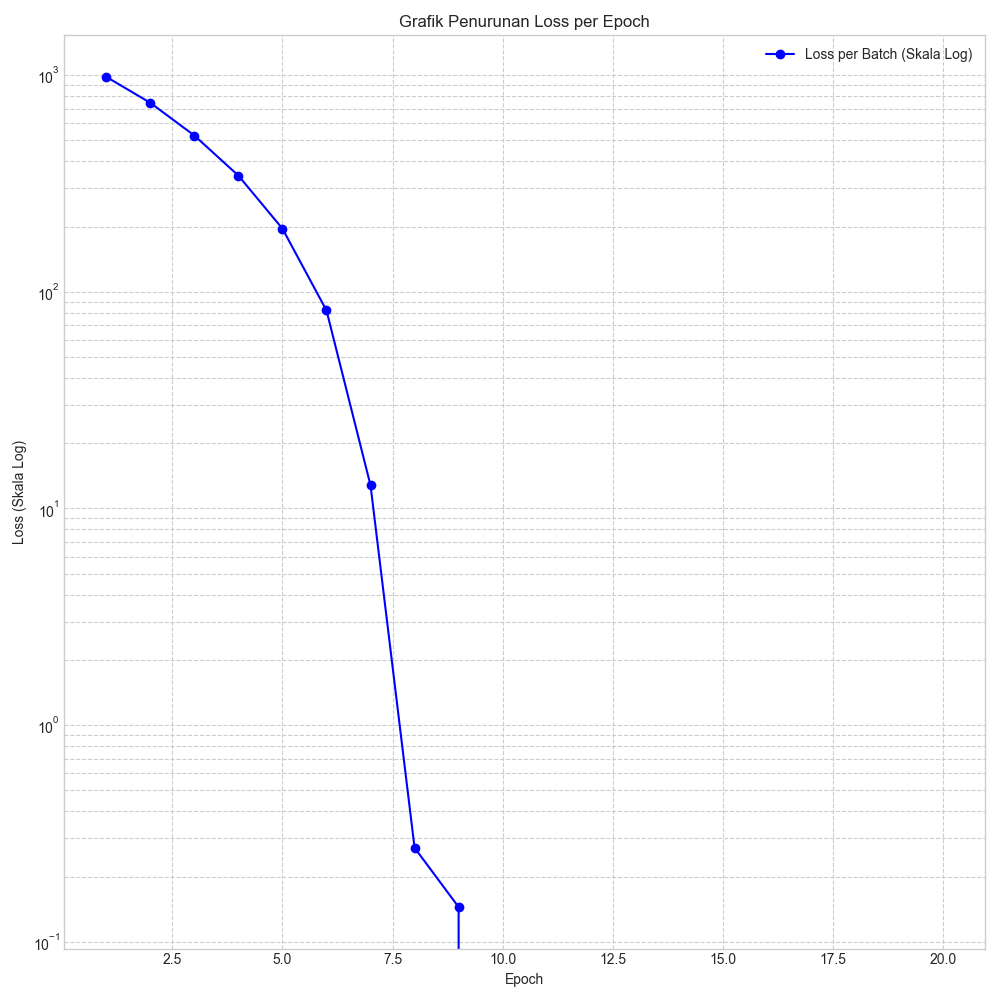
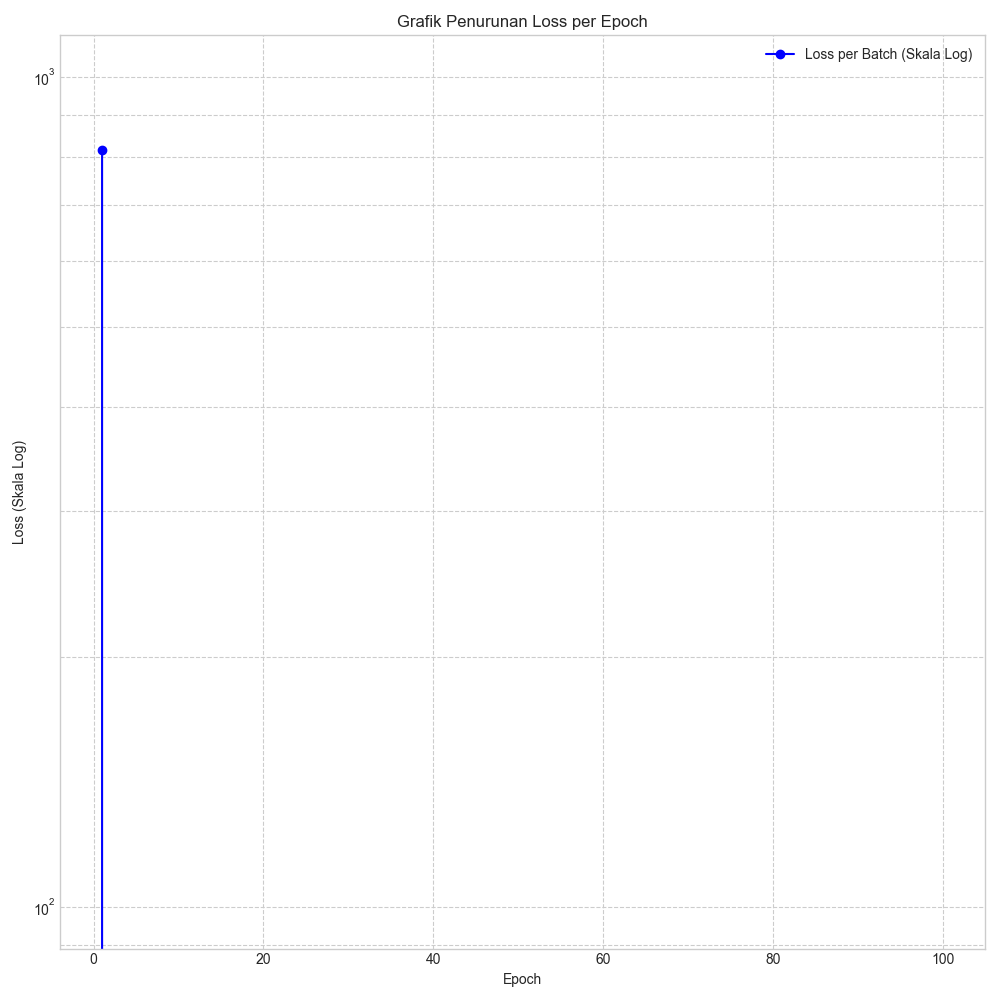
feat trainer

diff --git a/src/trainer2.py b/src/trainer2.py
@@ -4,6 +4,7 @@ import numpy as np
 import pandas as pd
 from torch.utils.data import Dataset, DataLoader
 import csv
+import os
 import sys
 import matplotlib.pyplot as plt # <-- PERBAIKAN: Pastikan baris ini ada di atas
 
@@ -14,12 +15,12 @@ ALPHA = 0.5
 BETA = 5
 GAMMA = 5
 ETA = 5
-R_MIN = 1
+R_MIN = 0.5
 P_MAX = 800.0
-EPOCHS = 20
+EPOCHS = 100
 BATCH_SIZE = 32
 K = 10
-LEARNING_RATE = 1e-4
+LEARNING_RATE = 1e-3
 
 # =================================================================
 # ==== Setup Logging ====
@@ -89,7 +90,7 @@ def custom_loss(Rk, Ik, pk_norm, alpha=ALPHA, beta=BETA, gamma=GAMMA, eta=ETA, R
     reward_qos = -alpha * torch.sum(Ik)
     qos_penalty = beta * torch.sum(torch.relu(R_min * Ik - Rk))
     power_penalty = gamma * torch.sum(torch.relu(pk_norm - 1.0))
-    reg_power = eta * pk_norm.sum()
+    # reg_power = eta * pk_norm.sum()
     return reward_throughput + reward_qos + qos_penalty + power_penalty 
 
 # =================================================================
@@ -105,7 +106,7 @@ def compute_beamforming(predicted_power, path_loss_db):
     L_mk = 10 ** (-path_loss_db / 10)  # Path loss dalam linear scale (bukan dB)
     
     # ===== Perbaikan sqrt_p sesuai jurnal =====
-    p = (predicted_power / (L_mk + 1e-9))  # Normalisasi oleh E[|h|^2]
+    p = (predicted_power / (L_mk))  # Normalisasi oleh E[|h|^2]
     sqrt_p=torch.sqrt(p)
 
     # ===== Channel generation =====
@@ -140,15 +141,20 @@ def compute_beamforming(predicted_power, path_loss_db):
 def compute_sinr(v_k, h_mk, sigma_n2):
     numerator = torch.abs(v_k * h_mk) ** 2
     total_signal = torch.sum(torch.abs(v_k * h_mk) ** 2, dim=1, keepdim=True)
-    denominator = total_signal - numerator + sigma_n2 + 1e-9
+    denominator = total_signal - numerator + sigma_n2
+    result = numerator / denominator
+    
+    return result
     # print(numerator)
     # print(denominator)
     # print(numerator/denominator)
-    return numerator / denominator
+    # return numerator / denominator
 
 def compute_rate(sinr_k, tau_d=270, tau_c=300):
     # print(torch.log2(1 + sinr_k))
-    return (tau_d / tau_c) * torch.log2(1 + sinr_k)
+    result = (tau_d / tau_c) * torch.log2(1 + 100*sinr_k)
+    # R = torch.clamp(result, min=1)
+    return result
     # return (tau_d / tau_c) * torch.log2(1 + sinr_k.clamp(min=1e-30))
 
 # def determine_qos(Rk, R_min=R_MIN, steepness=10.0):
@@ -190,6 +196,67 @@ def plot_training_results(log_path):
         print(f"Error saat membuat grafik: {e}")
 
 # =================================================================
+# ==== Plot Rate vs Epoch untuk Masing-Masing User Terminal (UT) ====
+# =================================================================
+def plot_rate_per_user(log_path):
+    print("\nMembuat grafik Rate vs Epoch untuk masing-masing UT...")
+    try:
+        df = pd.read_csv(log_path)
+        output_dir = "rate_per_user_plots"
+        os.makedirs(output_dir, exist_ok=True)
+
+        for i in range(1, K + 1):  # UT 1 sampai 10
+            plt.figure(figsize=(10, 6))
+            plt.plot(df["epoch"], df[f"rate_ut_{i}"], marker='o', linestyle='-', label=f'UT {i}')
+            plt.xlabel("Epoch")
+            plt.ylabel("Rate (bps/Hz)")
+            plt.title(f"Perbandingan Rate vs Epoch untuk UT {i}")
+            plt.grid(True)
+            plt.legend()
+
+            output_file = os.path.join(output_dir, f"rate_vs_epoch_ut_{i}.png")
+            plt.savefig(output_file)
+            plt.close()
+
+        print(f"Grafik untuk semua UT telah disimpan di folder '{output_dir}'.")
+
+    except FileNotFoundError:
+        print(f"Error: File log '{log_path}' tidak ditemukan.")
+    except Exception as e:
+        print(f"Error saat membuat grafik Rate per UT: {e}")
+
+# =================================================================
+# ==== Plot QoS Indicator (Ik) vs Epoch untuk Masing-Masing UT ====
+# =================================================================
+def plot_qos_per_user(log_path):
+    print("\nMembuat grafik QoS (Ik) vs Epoch untuk masing-masing UT...")
+    try:
+        df = pd.read_csv(log_path)
+        output_dir = "qos_per_user_plots"
+        os.makedirs(output_dir, exist_ok=True)
+
+        for i in range(1, K + 1):  # UT 1 sampai 10
+            plt.figure(figsize=(10, 6))
+            plt.plot(df["epoch"], df[f"qos_ut_{i}"], marker='o', linestyle='-', label=f'UT {i}')
+            plt.xlabel("Epoch")
+            plt.ylabel("QoS Indicator (Ik)")
+            plt.title(f"QoS vs Epoch untuk UT {i}")
+            plt.grid(True)
+            plt.legend()
+            plt.ylim(-0.1, 1.1)
+
+            output_file = os.path.join(output_dir, f"qos_vs_epoch_ut_{i}.png")
+            plt.savefig(output_file)
+            plt.close()
+
+        print(f"Grafik QoS untuk semua UT telah disimpan di folder '{output_dir}'.")
+
+    except FileNotFoundError:
+        print(f"Error: File log '{log_path}' tidak ditemukan.")
+    except Exception as e:
+        print(f"Error saat membuat grafik QoS per UT: {e}")
+
+# =================================================================
 # ==== Persiapan & Training Loop ====
 # =================================================================
 train_dataset = PowerDataset("data/processed/train_data.csv")
@@ -224,7 +291,7 @@ for epoch in range(EPOCHS):
         sinr_k = compute_sinr(v_k, h_mk, sigma_n2_val)
         Rk = compute_rate(sinr_k)
         Ik = (Rk >= R_MIN).float()
-        #Ik = determine_qos(Rk)
+        # Ik = determine_qos(Rk)
         
         pk_scaled = aggregate_power(predicted_power_scaled)
         pk_norm = aggregate_power(predicted_power_norm)
@@ -266,3 +333,5 @@ for epoch in range(EPOCHS):
 
 # Panggil fungsi plotting setelah training selesai
 plot_training_results(log_file)
+plot_rate_per_user(log_file)
+plot_qos_per_user(log_file)

diff --git a/src/trainer.py b/src/trainer.py
@@ -127,8 +127,8 @@ def compute_sinr(v_k, h_mk, sigma_n2):
 def compute_rate(sinr_k, tau_d=270, tau_c=300):
     return (tau_d / tau_c) * torch.log2(1 + sinr_k)
 
-def determine_qos(Rk, R_min=R_MIN, steepness=10.0):
-    return torch.sigmoid(steepness * (Rk - R_min))
+def determine_qos(Rk, R_min=R_MIN, Ik):
+    return torch.sigmoid(Ik * (Rk - R_min))
 
 def aggregate_power(predicted_power):
     return predicted_power.sum(dim=1)
